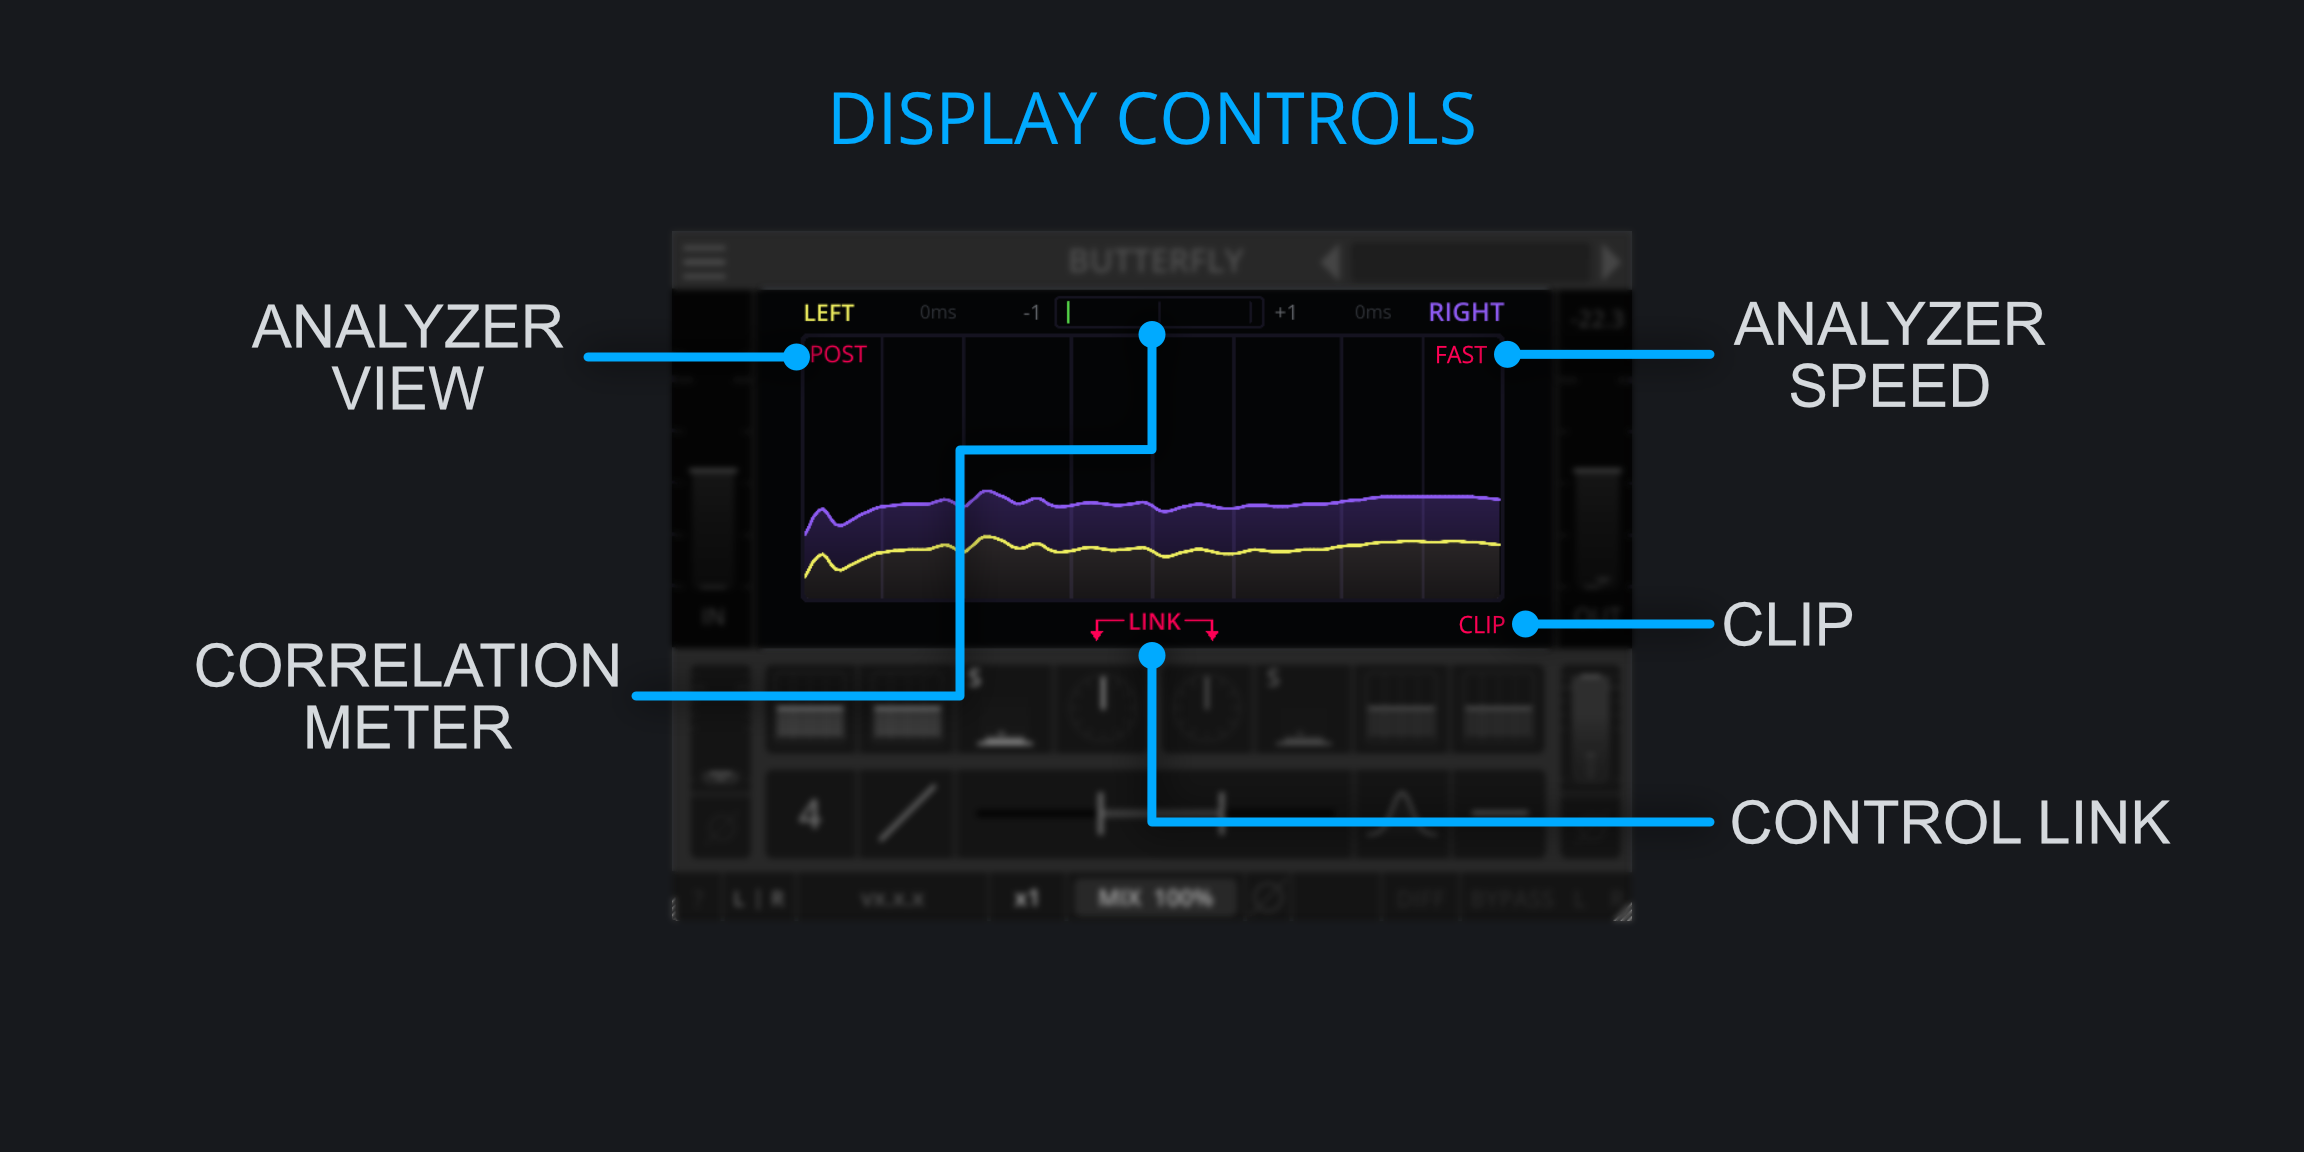
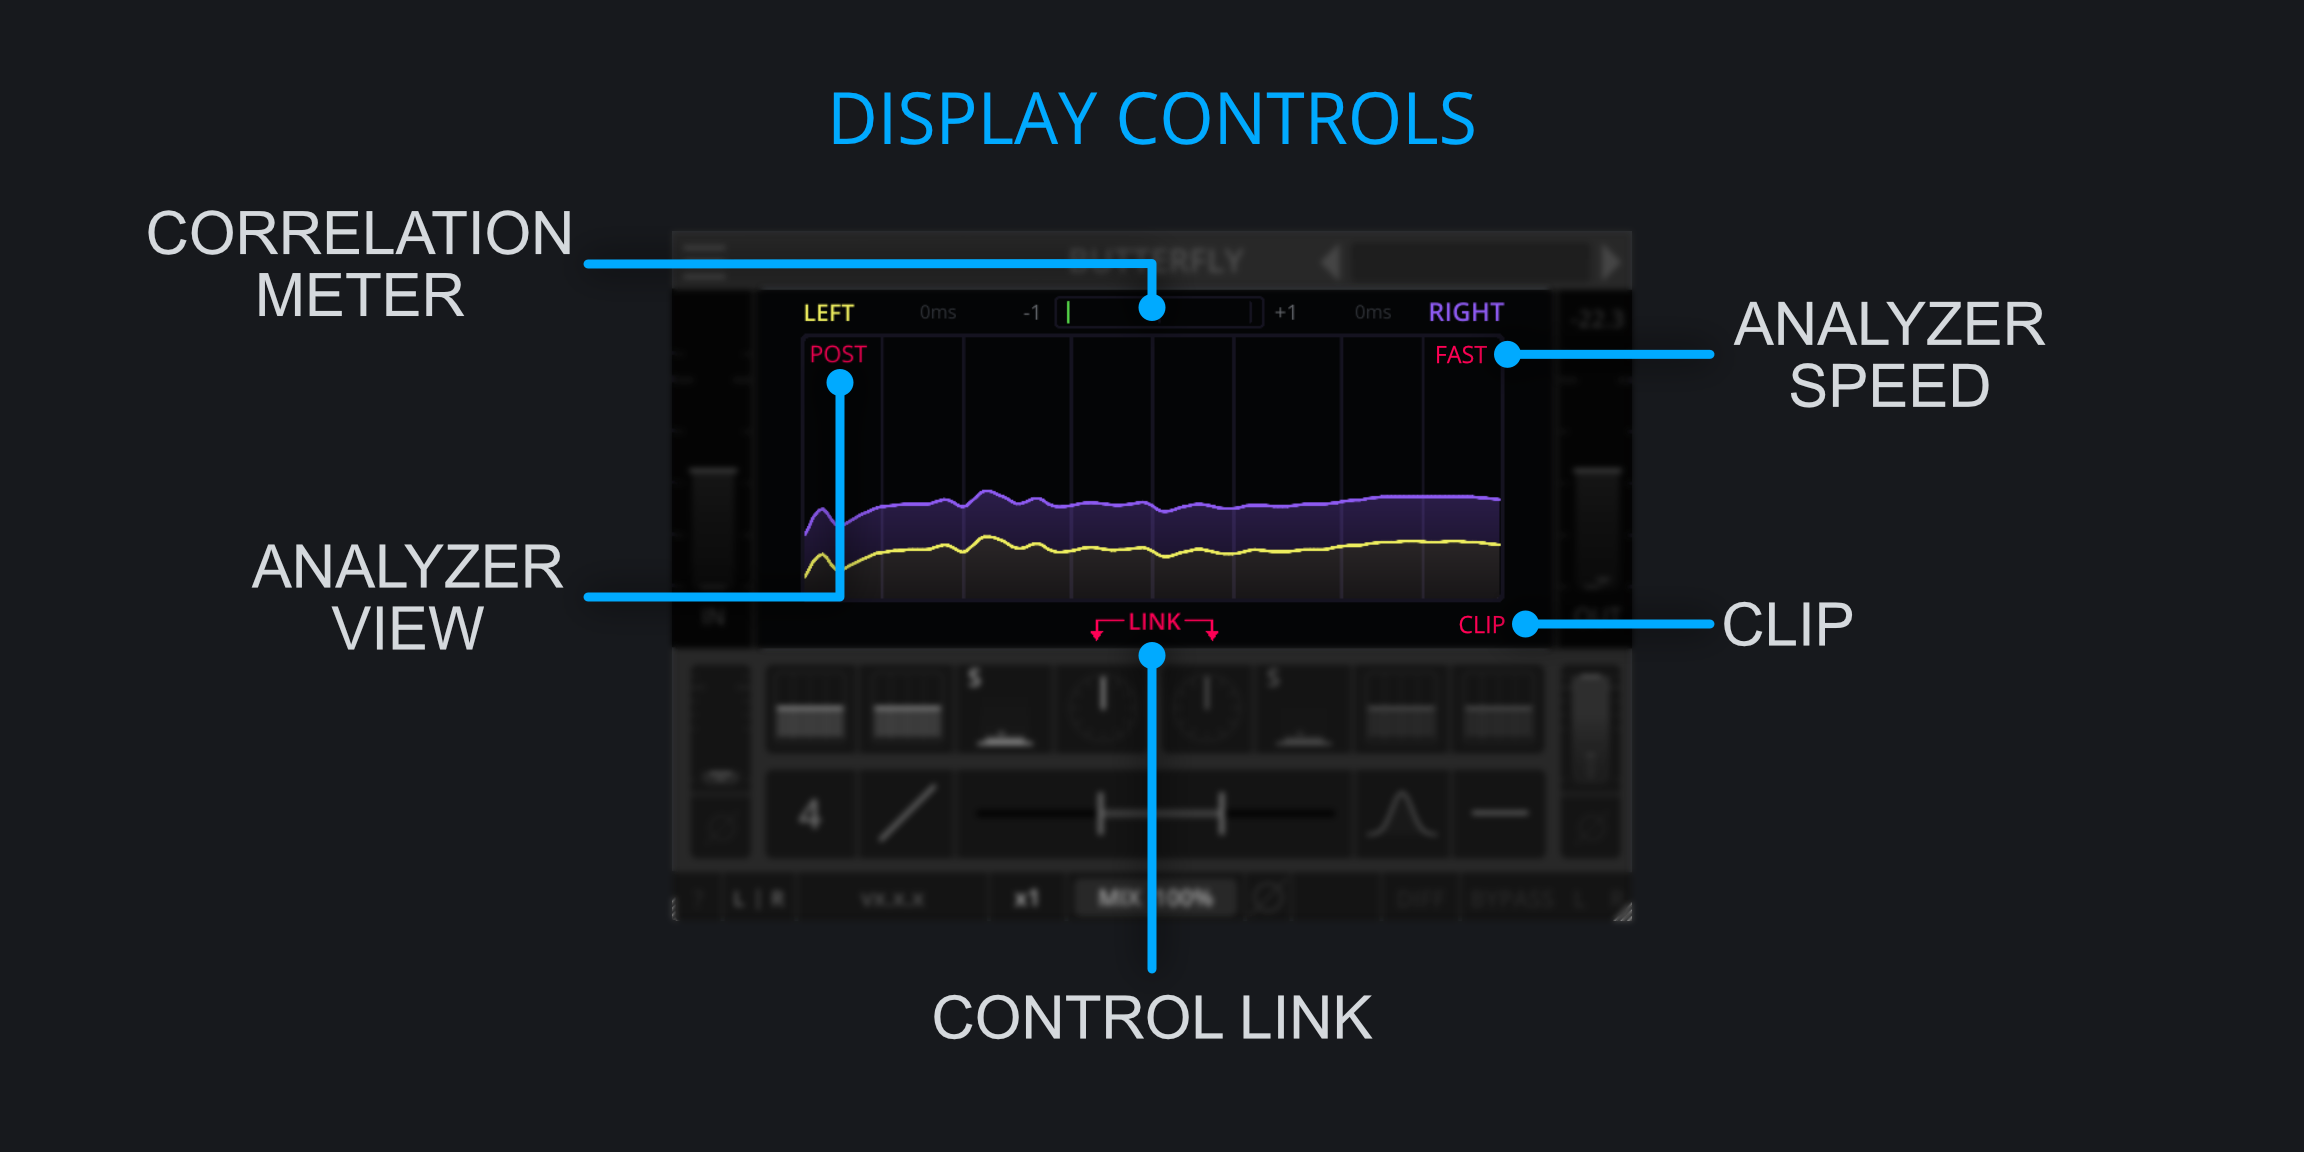
Updated Butterfly Manual, added clipper

diff --git a/butterfly/03_50_controls_display.md b/butterfly/03_50_controls_display.md
@@ -3,6 +3,11 @@
 ![](assets/butterfly_display_controls.png)
 </div>
 
+### Corelation Meter
+<span class="location">*(Located above the analyzer)*</span>\
+The correlation meter is a common indicator for showing how mono-compatible the signal is.
+<span class="spacer"/>
+
 ### Analyer View
 <span class="location">*(Located at the top left edge of the analyzer)*</span>\
 <div class="block controls bg-dark-2">
@@ -27,19 +32,15 @@ The analyer has different timings, allowing to change how fast it rises and fall
 - <span class="txt-purple">Slow</span>: Rise time: 750ms, Fall time: 3.0s.
 - <span class="txt-purple">Med</span>: Rise time: 100ms, Fall time: 400ms .
 - <span class="txt-purple">Fast</span>: Rise time: 37.5ms, Fall time: 150ms.
-
-
 </div>
-<span class="spacer"/>
-
-### Corelation Meter
-<span class="location">*(Located above the analyzer)*</span>\
-The correlation meter is a common indicator for showing how mono-compatible the signal is.
 <span class="spacer"/>
 
 ### Link
 <span class="location">*(Located below the analyzer)*</span>\
-Click to link the Channel-Controls (Gain, Phase, Filters, Compressor and Delay) together for changing the values in tandem. 
+<div class="block controls bg-dark-2">
+- <span class="item">Left-Click</span> Toggle Control linking.
+</div>
+Links the Channel-Controls (Gain, Phase, Filters, Compressor and Delay) together for changing the values in tandem. 
 This provides easy access to modify both channels at the same time.
 
 Please note that this will only affect changes made via the interface and not automation.
@@ -47,4 +48,12 @@ If automation is used to change any of the parameters when linking is enabled, o
 parameter will change whereas the other counterpart will remain unaffected.
 
 This is to done avoid potentially conflicting input from different automation tracks.
+<span class="spacer"/>
+
+### Clip-Button
+<span class="location">*(Located bottom-right of the analyzer)*</span>\
+<div class="block controls bg-dark-2">
+- <span class="item">Left-Click</span> Toggle Clipper.
+</div>
+The built-in clipper prevents the output-signal from going over a certain threshold and becoming too loud, e.x. caused by the SpreadEQ.
 <div class="pb"></div>
